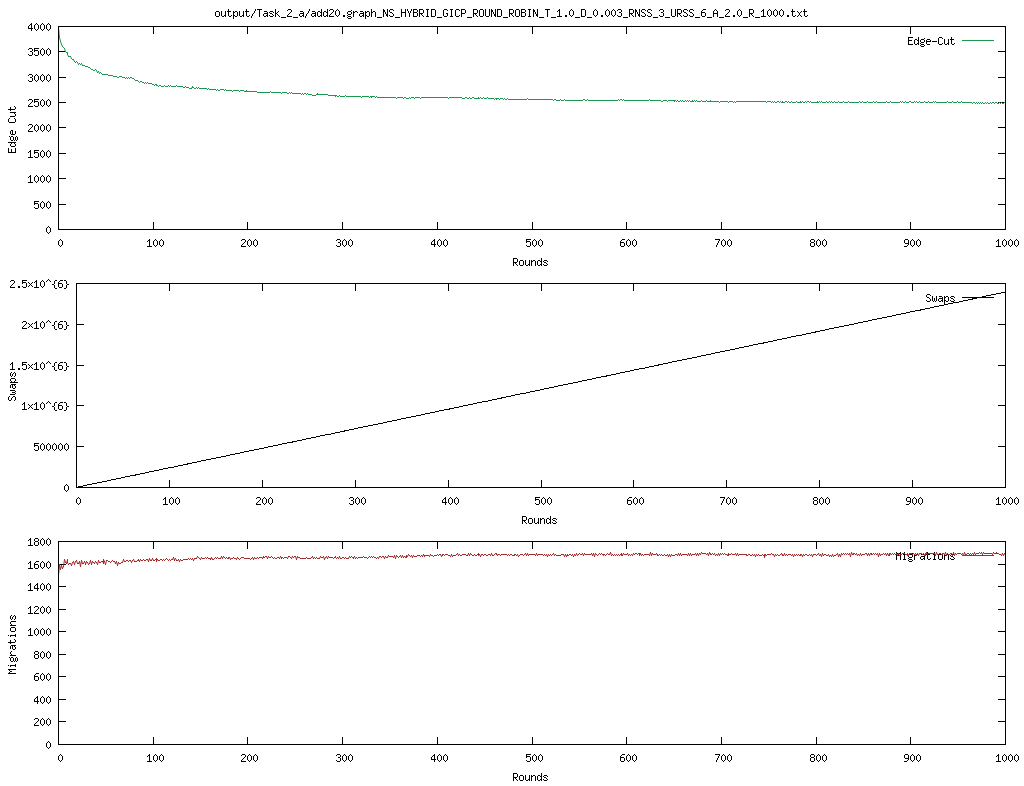
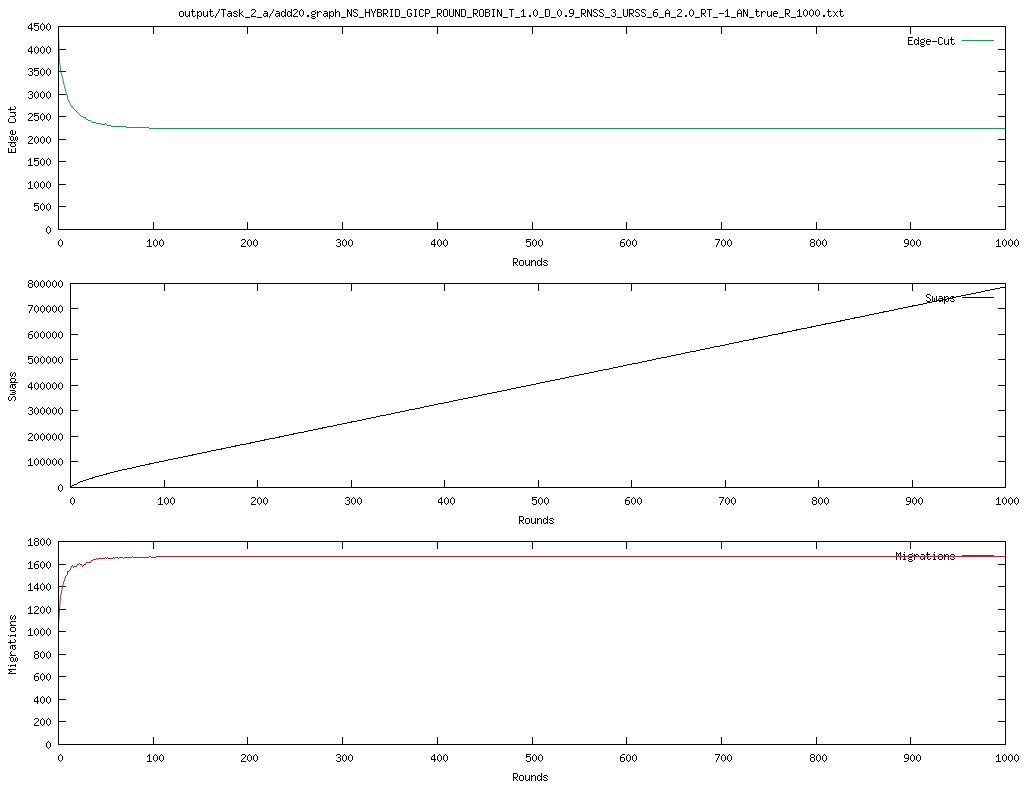
fix previous implementation and add Task2 b

diff --git a/src/main/java/se/kth/jabeja/Jabeja.java b/src/main/java/se/kth/jabeja/Jabeja.java
@@ -18,6 +18,10 @@ public class Jabeja {
   private int numberOfSwaps;
   private int round;
   private float T;
+  private float TOrig;
+  private int restartT;
+  private final float TMin = 0.00001f;
+  private boolean annealing;
   private boolean resultFileCreated = false;
 
   //-------------------------------------------------------------------
@@ -28,37 +32,53 @@ public class Jabeja {
     this.numberOfSwaps = 0;
     this.config = config; // has delta
     this.T = config.getTemperature();
+    this.annealing = config.getAnnealing();
+    if (annealing) {
+      config.setDelta(0.9f);
+      this.TOrig = config.getTemperature();
+      this.restartT = config.getRestartT();
+    }
   }
 
 
   //-------------------------------------------------------------------
   public void startJabeja() throws IOException {
     for (round = 0; round < config.getRounds(); round++) {
-      for (int id : entireGraph.keySet()) {
-        sampleAndSwap(id);
-      }
+        for (int id : entireGraph.keySet()) {
+          sampleAndSwap(id);
+        }
 
-      //one cycle for all nodes have completed.
-      //reduce the temperature
-      saCoolDown();
-      report();
-    }
+        //one cycle for all nodes have completed.
+        //reduce the temperature
+        saCoolDown();
+        report();
+      }
   }
 
   /**
    * Simulated analealing cooling function
    */
-  private void saCoolDown(){
-    // T_{k+1} = T_k / (1 + delta * T_k)
-    float delta = config.getDelta();
-    T = T / (1 + delta * T);
-
-    final float MIN_T = 1e-8f;
-    if (T < MIN_T) {
-      T = 0f;
+  private void saCoolDown() {
+    if (annealing) {
+      T *= config.getDelta();
+      if (T < TMin) {
+        T = TMin;
+      }
+      if (T==TMin && restartT != -1) {
+        if (round % restartT == 0) {
+          T = TOrig;
+        }
+      }
     }
-
-  }
+    else {
+      if (T > 1) {
+        T-=config.getDelta();
+      }
+      if (T < 1) {
+        T=1;
+      }
+    }
+}
 
   /**
    * Sample and swap algorith at node p
@@ -93,47 +113,43 @@ public class Jabeja {
     }
   }
 
-  public Node findPartner(int nodeId, Integer[] nodes){
-
-    Node nodep = entireGraph.get(nodeId); 
-
+public Node findPartner(int nodeId, Integer[] nodes) {
+    Node nodep = entireGraph.get(nodeId);
+    Random rand = new Random();
     Node bestPartner = null;
     double highestBenefit = 0;
 
     float alpha = config.getAlpha();
 
-    for (Integer q: nodes) {
-      Node nodeq = entireGraph.get(q);
-      int dpp = getDegree(nodep, nodep.getColor());
-      int dqq = getDegree(nodeq, nodeq.getColor());
-      double oldValue = (Math.pow(dpp, alpha) + Math.pow(dqq, alpha));
-      int dpq = getDegree(nodep, nodeq.getColor());
-      int dqp = getDegree(nodeq, nodep.getColor());
-      double newValue = (Math.pow(dpq, alpha) + Math.pow(dqp, alpha));
+    for (Integer q : nodes) {
+        Node nodeq = entireGraph.get(q);
 
-      double costDiff = newValue - oldValue;
-      boolean accept = false;
+        int dpp = getDegree(nodep, nodep.getColor());
+        int dqq = getDegree(nodeq, nodeq.getColor());
+        double oldValue = Math.pow(dpp, alpha) + Math.pow(dqq, alpha);
 
-      Random rand = new Random(config.getSeed());
+        int dpq = getDegree(nodep, nodeq.getColor());
+        int dqp = getDegree(nodeq, nodep.getColor());
+        double newValue = Math.pow(dpq, alpha) + Math.pow(dqp, alpha);
 
-      // If more neighbours of same color in exchange
-      if (costDiff > 0)
-        accept = true;
-      else {
-        double acceptProb = Math.exp(costDiff / T);
-        if (acceptProb > rand.nextDouble()) {
-          accept = true;
+        if (annealing) {
+          double p = rand.nextDouble();
+          double acceptProb = Math.exp((newValue-oldValue) / T);
+          if (newValue != oldValue && acceptProb > p && acceptProb > highestBenefit) {
+            bestPartner = nodeq;
+            highestBenefit = acceptProb;
+          }
         }
-      }
+        else {
+          if (newValue * T > oldValue && newValue > highestBenefit) {
+            bestPartner = nodeq;
+            highestBenefit = newValue;
+          }
+        }
 
-      if (accept && (newValue > highestBenefit)) {
-        bestPartner = nodeq;
-        highestBenefit = newValue;
-      }
-    }
-
+        }
     return bestPartner;
-  }
+}
 
   /**
    * The the degreee on the node based on color
@@ -270,6 +286,8 @@ public class Jabeja {
             "RNSS" + "_" + config.getRandomNeighborSampleSize() + "_" +
             "URSS" + "_" + config.getUniformRandomSampleSize() + "_" +
             "A" + "_" + config.getAlpha() + "_" +
+            "RT" + "_" + config.getRestartT() + "_" +
+            "AN" + "_" + config.getAnnealing() + "_" + 
             "R" + "_" + config.getRounds() + ".txt";
 
     if (!resultFileCreated) {

diff --git a/src/main/java/se/kth/jabeja/config/Config.java b/src/main/java/se/kth/jabeja/config/Config.java
@@ -13,6 +13,8 @@ public class Config {
   private GraphInitColorPolicy initColorPolicy;
   private NodeSelectionPolicy nodeSelectionPolicy;
   private Float alpha;
+  private Integer restartT;
+  private boolean annealing;
 
   public Config setAlpha(Float alpha) {
     this.alpha = alpha;
@@ -66,6 +68,16 @@ public class Config {
 
   public Config setSeed(Integer seed) {
     this.seed = seed;
+    return this;
+  }
+
+  public Config setRestartT(Integer restartT) {
+    this.restartT = restartT;
+    return this;
+  }
+
+  public Config setAnnealing(int annealing) {
+    this.annealing = (annealing == 1)? true: false;
     return this;
   }
 
@@ -157,6 +169,17 @@ public class Config {
     }
     return alpha;
   }
+
+  public Integer getRestartT() {
+    if (restartT == null) {
+    }
+    return restartT;
+  }
+
+  public boolean getAnnealing() {
+    return annealing;
+  }
+
 
   public Config createJabejaConfig() {
     return new Config();

diff --git a/src/main/java/se/kth/jabeja/io/CLI.java b/src/main/java/se/kth/jabeja/io/CLI.java
@@ -57,6 +57,12 @@ public class CLI {
   @Option(name = "-outputDir", usage = "Location of the output file(s)")
   private static String OUTPUT_DIR = "./output";
 
+  @Option(name = "-restartt", usage = "Round to restat T to its initial value.")
+  private static Integer RESTARTT = -1;
+
+  @Option(name = "-aneal", usage = "Use annealing method if 1")
+  private static int ANNEALING = 0;
+
   public Config parseArgs(String[] args) throws FileNotFoundException {
     CmdLineParser parser = new CmdLineParser(this);
     parser.setUsageWidth(80);
@@ -110,6 +116,8 @@ public class CLI {
             .setNodeSelectionPolicy(nodeSelectionPolicy)
             .setGraphInitialColorPolicy(graphInitColorSelectionPolicy)
             .setOutputDir(OUTPUT_DIR)
-            .setAlpha(ALPHA);
+            .setAlpha(ALPHA)
+            .setRestartT(RESTARTT)
+            .setAnnealing(ANNEALING);
   }
 }
